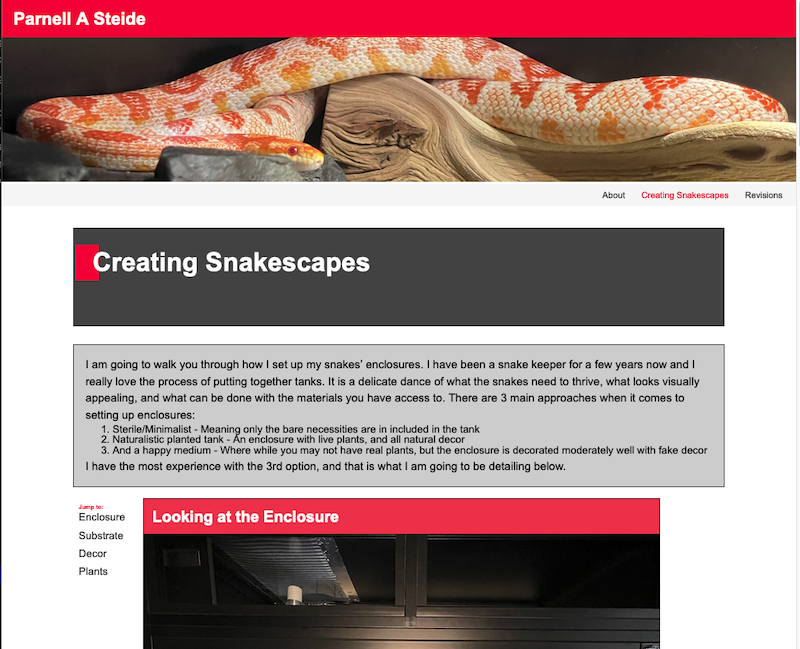
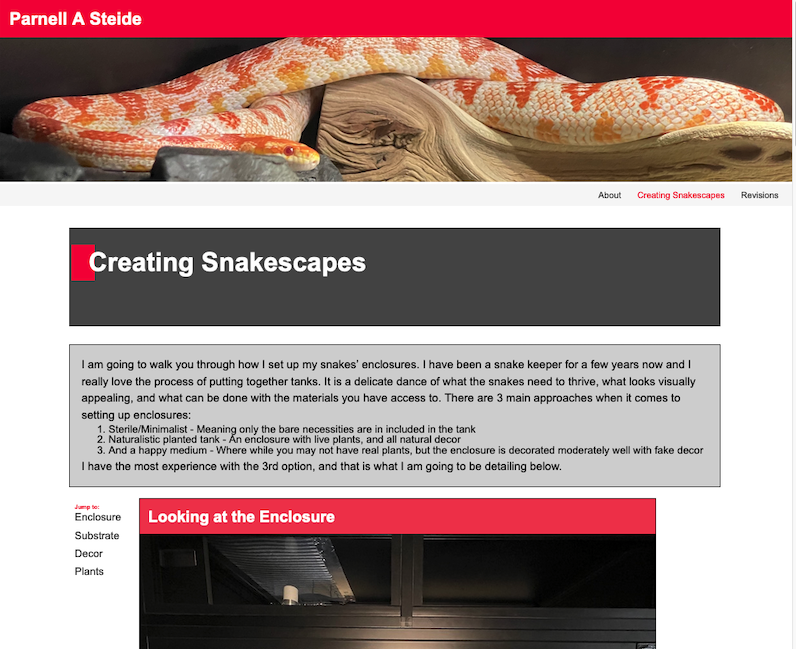
fourth commit

diff --git a/create.html b/create.html
@@ -21,7 +21,7 @@
     <nav class="navi">
         <ul>
             <li><a href="index.html">About</a></li>
-            <li><a href="create.html"class=highlight>Creating Snakescapes</a></li>
+            <li><a href="create.html"class="active">Creating Snakescapes</a></li>
             <li><a href="revision.html">Revisions</a></li>
         </ul>
     </nav>
@@ -76,7 +76,7 @@
                             </div> 
                         </div>
                         <p>
-                            I am going to skip the boring stuff, for the most part, but I would like to at least mention some basic things. Starting out, from above I have a deep heat projector to provide a rich source of heat in the from of Infrared A and B rays, along with an LED panel to provide visible light. I do also have heating pad to provide heat from below for when the snake decides to burrow under the substrate. Which is an excellent Segway to the next section
+                            I am going to skip the boring stuff, for the most part, but I would like to at least mention some basic things. Starting out, from above I have a deep heat projector to provide a rich source of heat in the form of <span class="highlight"> Infrared A and B rays</span>, along with an LED panel to provide visible light. I do also have heating pad to provide heat from below for when the snake decides to burrow under the substrate. Which is an excellent Segway to the next section.
                         </p>
                         <p class ="note">
                             <small> ⚠ Note: It is important when using heating pads to use a thermostat to regulate the temperature as, otherwise, they will get <span class="hot">extremely hot ⚠ </span></small>
@@ -95,7 +95,7 @@
                             <li>Aspen Shavings</li>
                         </ul>
                         <p>
-                            You can even mix most substrates together, it really depends on a mix of personal preference but also the owner’s climate. Every substrate has it’s own pros and cons. I personally use Aspen, and while some may say that Aspen looks too artificial, I like the way it looks. And since I live in Florida, where it’s frequently very humid, it’s good for the snakes.
+                            You can even mix most substrates together, it really depends on a mix of personal preference but also the owner’s climate. Every substrate has it’s own pros and cons. <span class="highlight">I personally use Aspen</span>, and while some may say that Aspen looks too artificial, I like the way it looks. And since I live in Florida, where it’s frequently very humid, it’s good for the snakes.
                         </p>
                             <div class="overlay_container">
                                 <img class="tut_img" src="images/substrate.jpeg" alt="cage with substrate">
@@ -119,15 +119,15 @@
                             </div>
 
                             <p>
-                                I have a cave for the warm side, open bottom (so they have access to that belly heat). I also have a more secure, enclosed rock cave. There’s also cork rounds cut in half for extra hiding spaces. There is a very known saying that you can never have too much cover in a snake’s enclosure.                               
+                                I have a cave for the warm side, open bottom (so they have access to that belly heat). I also have a more secure, enclosed rock cave. There’s also cork rounds cut in half for extra hiding spaces. <span class="highlight">There is a very known saying that you can never have too much cover in a snake’s enclosure!</span>                           
                             </p>
 
                             <p>
-                                Climbing opportunities are a bit controversial in the reptile hobby, some say to always include something to climb on, while the opposers say it isn’t necessary. I always include branches because even if they never use it, it will always make a cage look better. So as you can see I have included a magnetic ledge, a branch, and a vine, which is mounted to the top of the enclosure.
+                                Climbing opportunities are a bit controversial in the reptile hobby, some say to always include something to climb on, while the opposers say it isn’t necessary. I always include branches because even if they never use it, it will always make a cage look better. So as you can see I have included a magnetic ledge, and some branches.
                             </p>
 
                             <p>
-                                Lastly but not least is the water bowl, which is very self explanatory. Some will include bowls large enough for their snakes to soak, but mine have never exhibited that behavior and I find that it just takes up too much space.
+                                Lastly but not least is the water bowl, which is very self explanatory. Some will include bowls large enough for their snakes to soak, but mine have never exhibited that behavior and I find that it just takes up too much floor space.
                             </p>
                     </section>
 
@@ -146,7 +146,7 @@
                                 Much like the other decor the possibilities are endless, but as you see here, I have some plants buried in the substrate, some mounted to the walls, and some even hanging from the ceiling. 
                             </p>
                                 
-                            <p>
+                            <p class="end">
                                 And there you have it there is the completed enclosure. Hope you have fun reading this tutorial.
                             </p>
                         </section>
@@ -159,7 +159,7 @@
                             <p> 
                                 There are many backgrounds you can choose from, vinyl, fake rock, foam, I am currently not using any at the moment, but I have in the past have made my own foam background, shown below. Normal wear and tear ended up degrading the background too much, too quickly and ultimately decided to to rip it out. 
                             </p>
-                            <a href="images/naturalistic.jpeg"><img src="images/naturalistic.jpeg" alt="naturalistic background example"></a>
+                            <a href="images/naturalistic.jpeg" target="_blank"><img src="images/naturalistic.jpeg" alt="naturalistic background example"></a>
                         </div>
                     </div>
                    

diff --git a/index.html b/index.html
@@ -20,7 +20,7 @@
     </section>
     <nav class="navi">
         <ul>
-            <li><a href="index.html" class=highlight>About</a></li>
+            <li><a href="index.html" class="active">About</a></li>
             <li><a href="create.html">Creating Snakescapes</a></li>
             <li><a href="revision.html">Revisions</a></li>
         </ul>
@@ -35,10 +35,10 @@
         <article class="grid">
             <img src="images/me2.jpeg" alt="picture of Parnell" class="me">
             <p class=about id="bio">
-                My name is Parnell Steide, and I was born and raised in New Jersey, but I currently live in Florida. As someone who’s culturally mixed, I love to mix and match different aspects of life. My two main interests in life, technology and reptile keeping may seem contradictory, but I find that I like the balance that can be found between them. I have been with ford credit almost 6 years, and I started in the Investigations department and worked my way up to become a Commercial Discrepancy Specialist in funding. 
+                <span class="highlight">My name is Parnell Steide</span>, and I was born and raised in New Jersey, but I currently live in Florida. As someone who’s culturally mixed, I love to mix and match different aspects of life. My two main interests in life, technology and reptile keeping may seem contradictory, but I find that I like the balance that can be found between them. I have been with Ford Credit almost 6 years, and I started in the Investigations department and worked my way up to become a Commercial Discrepancy Specialist in Funding. 
             </p>
             <p class="about" id="softeng">
-                I want to be a software engineer, because I truly believe it is the future. Technology is all around us, and while we haven’t exactly mastered flying cars yet, it is vastly integrated in our daily lives and I am excited about that. Ever since I was a child I have been captivated by technology, from taking apart my second hand Super Nintendo system to loading up linux on an old laptop I thought was otherwise garbage. Even over the last 6 weeks web design has become something that was something I remember messing with as kid, to something I’ve really become invested in. There is something really satisfying in creating something literally out of thin air. I am vivaciously excited to continue to learn even more than I already have. 
+                <span class="highlight">I want to be a software engineer, because I truly believe it is the future.</span>  Technology is all around us, and while we haven’t exactly mastered flying cars yet, it is vastly integrated in our daily lives and I am excited about that. Ever since I was a child I have been captivated by technology, from taking apart my second hand Super Nintendo system to loading up linux on an old laptop I thought was otherwise scrap. Even over the last 6 weeks web design has shifted from something I remember messing with as kid, to something I’ve really become invested in. There is something really satisfying in creating something literally out of thin air. I am vivaciously excited to continue to learn even more than I already have. 
             </p>
         </article>
 

diff --git a/revision.html b/revision.html
@@ -22,7 +22,7 @@
         <ul>
             <li><a href="index.html">About</a></li>
             <li><a href="create.html">Creating Snakescapes</a></li>
-            <li><a href="revision.html"class=highlight>Revisions</a></li>
+            <li><a href="revision.html"class="active">Revisions</a></li>
         </ul>
     </nav>
     <main>
@@ -45,11 +45,11 @@
         </section>
 
         <section class="before">
-            <h3>Here is what the page looked like before, (click for bigger images) </h3>
+            <h3>Here is what the page looked like before <span class="hdr">(click images for larger versions)</span> </h3>
             <ul>
-                <li><img src="images/before2.png" alt="Before Image 1"></li>
-                <li><img src="images/before3.png" alt="Before Image 2"></li>
-                <li><img src="images/before4.png" alt="Before Image 3"></li>
+                <li><a href="images/before2.png" target="_blank"><img src="images/before2.png" alt="Before Image 1"></a></li>
+                <li><a href="images/before3.png" target="_blank"><img src="images/before3.png" alt="Before Image 2"></a></li>
+                <li><a href="images/before4.png" target="_blank"><img src="images/before4.png" alt="Before Image 3"></a></li>
             </ul>
         </section>
         <h3>Here are the major changes that where made:</h3>
@@ -59,21 +59,21 @@
                 <img src="images/aftertop.png" class="slide_in from_left"  width="600" alt="Top section after">
 
                 <p class="slide_in from_right" >
-                    In the top section, along with a color theme change, I put the ordered lists in it’s own grid section and gave it some space in between, I also got rid of the numbering as it wasn’t very necessary and crowed up the text.
+                    In the top section, along with a color theme change, I put the ordered lists in it’s own grid section and gave it some space in between. I also got rid of the numbering as it wasn’t necessary and crowed up the text.
                 </p>
             </section>
-            <hr class="rounded">
+            <hr class="divider">
             <section class="revision_container">
                 <p class="slide_in from_left" >
                     I also took pieces of texts and moved them up into the photos as frame overlays. This allows more information to be accessible, but at the same time not presenting huge blocks of text all at once. 
                 </p>
                 <img src="images/afteroverlay.png" class="slide_in from_right" width="600" alt="Text overlay after">
             </section>
-            <hr class="rounded">
+            <hr class="divider">
             <section class="revision_container">
                 <img src="images/afterparagraph.png" class="slide_in from_left" width="600" alt="Paragraph after">
                 <p class="slide_in from_right" >
-                    I also use my p tags a bit better to separate out different thoughts better, and got rid of the bold text. 
+                    I also use my paragraph tags a bit better to separate out different thoughts better, and got rid of the bold text. 
                 </p>
             </section>
     </section>

diff --git a/styles.css b/styles.css
@@ -68,7 +68,7 @@ nav li a:hover{
     text-decoration: underline;
 }
 
-nav li a.highlight{
+nav li a.active{
     color: var(--rred);
 }
 
@@ -85,6 +85,11 @@ footer{
     color: white;
     padding: 10px;
     text-align: center;
+}
+
+.highlight{
+    color: var(--ggrey);
+    font-weight: bold;
 }
 
 
@@ -200,16 +205,16 @@ article.grid{
     line-height: 1.5em;
     color: black;
     font-size: 1.3em;
-    /* border: 2px solid black; */
+    
 }
 
 #bio{
-    /* background: var(--lgrey); */
+  
     grid-column: span 2;
 }
 
 #softeng{
-    /* background: var(--lgrey); */
+    
     grid-column: span 3;
 }
 
@@ -325,7 +330,7 @@ article.grid{
     transition: transform 250ms;
 }
 
-.over_text:hover{
+.overlay_text:hover{
     transform: translateY(0px);
 }
 
@@ -335,6 +340,10 @@ article.grid{
 
 }
 
+.end{
+    font-style: italic;
+    font-weight: bold;
+}
 
 .tutorial p{
     padding: 1em;
@@ -350,7 +359,7 @@ article.grid{
 }
 
 .note small{
-    font-size: .68em;
+    font-size: .63em;
 }
 span.hot{
     color: var(--rred);
@@ -399,57 +408,51 @@ h6{
 
 }
 
-@media only screen and (max-width: 700px) {
-    article.grid{
-     
-        grid-template-columns: 1fr;
-    }
-    #bio{
-        grid-column: span 1;
-    }
-    
-    #softeng{
-        grid-column: span 1;
-    }
-
-  }
-
   /* Revision Specfic styles  */
 
-  .before ul{
-      display: grid;
-      grid-template-columns: repeat(auto-fit, minmax(200px, 1fr))
-  }
+.before ul{
+    display: grid;
+    grid-template-columns: repeat(auto-fit, minmax(200px, 1fr))
+}
 
-  .before ul li{
-      list-style-type: none;
-  }
+.before ul li{
+    list-style-type: none;
+}
 
-  .before ul li img{
-      max-width: 350px;
-  }
+.before ul li img{
+    max-width: 350px;
+}
 
-  .changes{
-      display: grid;
-      grid-template-columns: 1fr;
-      gap: 4rem;
-      align-items: center;
-  }
+.before ul li img:hover{
+    position: relative;
+    top: -4px;
+}
 
-  .revision h3{
-      font-size: 2rem;
-      color: white;
-      background-color: var(--rred);
-      margin-top: 1em;
-      margin-bottom: 1em;
-      padding: 15px;
-  }
+.hdr{
+    font-size: .6em;
+}
 
-  .revision_container{
-      display: grid;
-      grid-template-columns: repeat(3, 1fr);
-      gap: 2em;
-      overflow-x: hidden;
+.changes{
+    display: grid;
+    grid-template-columns: 1fr;
+    gap: 4rem;
+    align-items: center;
+}
+
+.revision h3{
+    font-size: 2rem;
+    color: white;
+    background-color: var(--rred);
+    margin-top: 1em;
+    margin-bottom: 1em;
+    padding: 15px;
+}
+
+.revision_container{
+    display: grid;
+    grid-template-columns: repeat(3, 1fr);
+    gap: 2em;
+    overflow-x: hidden;
 
 }
 
@@ -487,8 +490,28 @@ h6{
     opacity: 1;
 }
 
-/* Rounded border */
-hr.rounded {
-    border-top: 8px solid #bbb;
-    border-radius: 5px;
+
+hr.divider{
+    color: var(--lred);
+
+}
+
+@media only screen and (max-width: 700px) {
+    article.grid{
+     
+        grid-template-columns: 1fr;
+    }
+    #bio{
+        grid-column: span 1;
+    }
+    
+    #softeng{
+        grid-column: span 1;
+    }   
+
+    .overlay{
+        position: relative;
+        opacity: 1;
+    
+    }
 }
